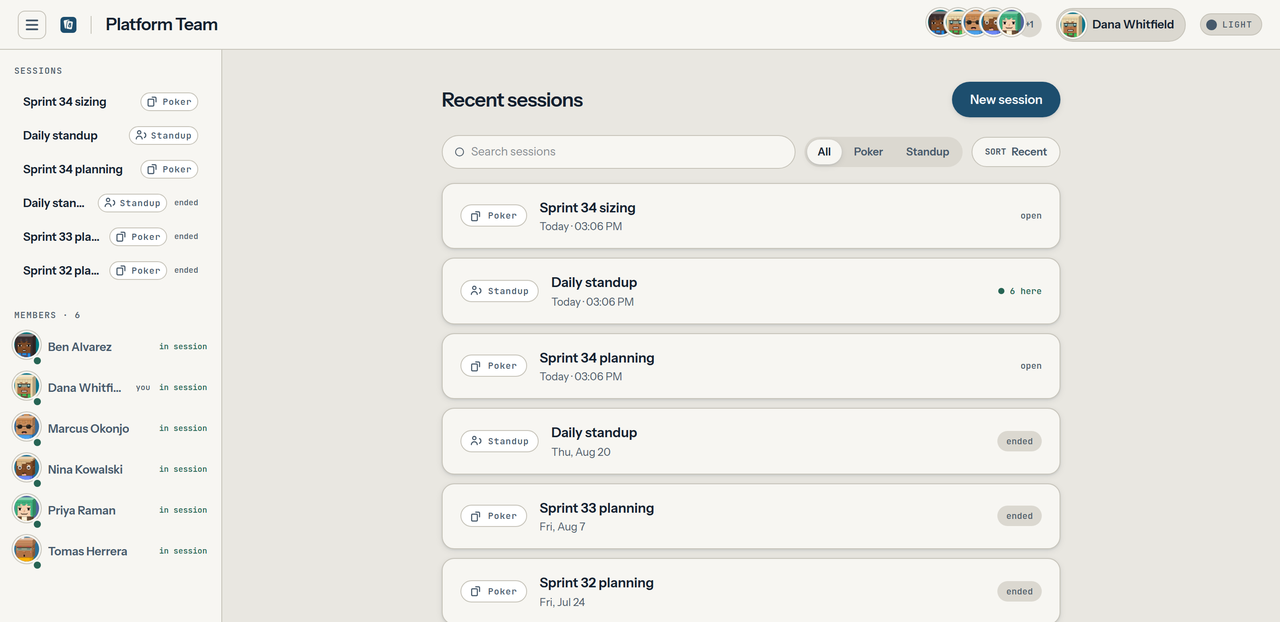
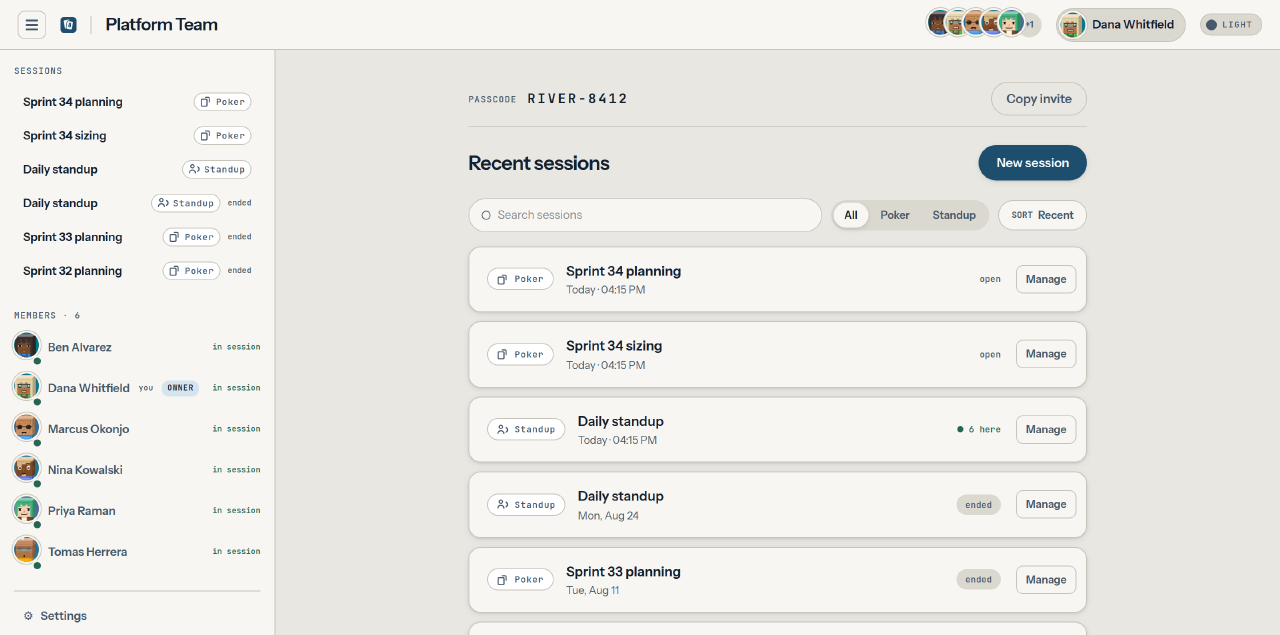
docs: re-shoot the space screenshots after the settings split (#352)
* fix(web): keep member names legible in the sidebar roster

Splitting the space page moved the Owner/Member chip onto the sidebar roster,
where every span but the name is shrink-0 — so the chip was paid for out of the
names, and all six clipped: "Ben Alv…", "Marcus …", and the viewer's own row
down to "Dan…" with 37px for 92px of text.

Chip only the owners. "Member" is what appearing in this roster already means,
which leaves the accent Owner chip carrying the one bit that is news. The rail
also goes 250px → 310px so the owner's own row — name, you, OWNER, in session —
fits without the name giving way.

Found while re-shooting the marketing screenshots for #350: the space page shot
is mostly this roster.

* docs: re-shoot the space screenshots after the settings split

/s/:slug no longer carries Members, Access, Space name or the Danger Zone, so
every shot that framed the space page was stale — the old one showed the
passcode panel roughly 1290px down the scroll, which is the defect #349 fixed.

Re-shot against a build of b939be4: space-room-code, session-history,
avatar-picker (the dialog sits over the space page) and the README thumbnail.
Adds space-settings, light and dark, for the Space settings section that had no
picture of the route it describes.

The space alt text described "a panel at the foot showing the space passcode
RIVER-8412 with Copy invite, Copy passcode, New passcode and Make open" — two of
[…]

diff --git a/web/src/components/AppShell.tsx b/web/src/components/AppShell.tsx
@@ -265,15 +265,13 @@ export function AppShell({
                     )}
                     {/* Roles ride on the space payload only; a session roster
                         carries none, and must not imply everyone is a member
-                        of nothing. */}
-                    {m.role && (
-                      <span
-                        className={
-                          "shrink-0 rounded-chip px-1.5 py-0.5 font-mono text-[9px] uppercase tracking-[0.06em] " +
-                          (m.role === "owner" ? "bg-accent-soft text-ink" : "bg-felt-deep text-ink-faint")
-                        }
-                      >
-                        {m.role === "owner" ? "Owner" : "Member"}
+                        of nothing. Only owners are chipped: every other span in
+                        this row is shrink-0, so a chip on all six rows takes the
+                        width out of the names, and "Member" is what being listed
+                        here already means. */}
+                    {m.role === "owner" && (
+                      <span className="shrink-0 rounded-chip bg-accent-soft px-1.5 py-0.5 font-mono text-[9px] uppercase tracking-[0.06em] text-ink">
+                        Owner
                       </span>
                     )}
                     {m.at && (
@@ -432,7 +430,7 @@ export function AppShell({
         {sideOpen && wide && !guest && (
           <nav
             aria-label="Space"
-            className="flex w-[250px] shrink-0 flex-col gap-6 border-r border-line bg-surface p-4"
+            className="flex w-[310px] shrink-0 flex-col gap-6 border-r border-line bg-surface p-4"
           >
             {navBody}
           </nav>

diff --git a/web/src/components/AppShell.test.tsx b/web/src/components/AppShell.test.tsx
@@ -292,6 +292,21 @@ describe("getting to the table", () => {
     expect(within(list).getByRole("button", { name: /Marcus Okonjo.*offline/i })).toBeTruthy();
   });
 
+  it("chips only the owners, so a plain member's name keeps the width", () => {
+    stubAuthMode("open");
+    // Every row but the name is shrink-0, so a chip on all six rows takes the
+    // width out of the names — which is the one thing the roster is for.
+    renderShell({
+      members: [
+        makePerson({ userId: "dana", name: "Dana Whitfield", role: "owner" }),
+        makePerson({ userId: "marcus", name: "Marcus Okonjo", role: "member" }),
+      ],
+    });
+    const list = screen.getByRole("heading", { name: /Members/ }).parentElement!;
+    expect(within(list).getByText("Owner")).toBeTruthy();
+    expect(within(list).queryByText("Member")).toBeNull();
+  });
+
   it("says a name once, not twice, where a label already carries it", () => {
     stubAuthMode("open");
     renderShell({ members: roster.slice(0, 1) });

diff --git a/web/src/pages/SpaceSettingsPage.test.tsx b/web/src/pages/SpaceSettingsPage.test.tsx
@@ -265,13 +265,16 @@ describe("SpacePage after the split", () => {
   });
 
   // The one bit the page-section roster carried that the sidebar did not.
-  it("moves the Owner/Member chip onto the sidebar roster", async () => {
+  // Only the owner is chipped: the row's other spans are all shrink-0, so a
+  // chip on every row is paid for out of the names, and "Member" is what
+  // appearing in this roster already means.
+  it("moves the Owner chip onto the sidebar roster", async () => {
     renderApp(routed, { route: "/s/platform-team" });
 
     const nav = within(await screen.findByRole("navigation", { name: "Space" }));
     const ada = nav.getByRole("button", { name: /Ada/ });
     expect(within(ada).getByText("Owner")).toBeTruthy();
     const bob = nav.getByRole("button", { name: /Bob/ });
-    expect(within(bob).getByText("Member")).toBeTruthy();
+    expect(within(bob).queryByText("Member")).toBe(null);
   });
 });
